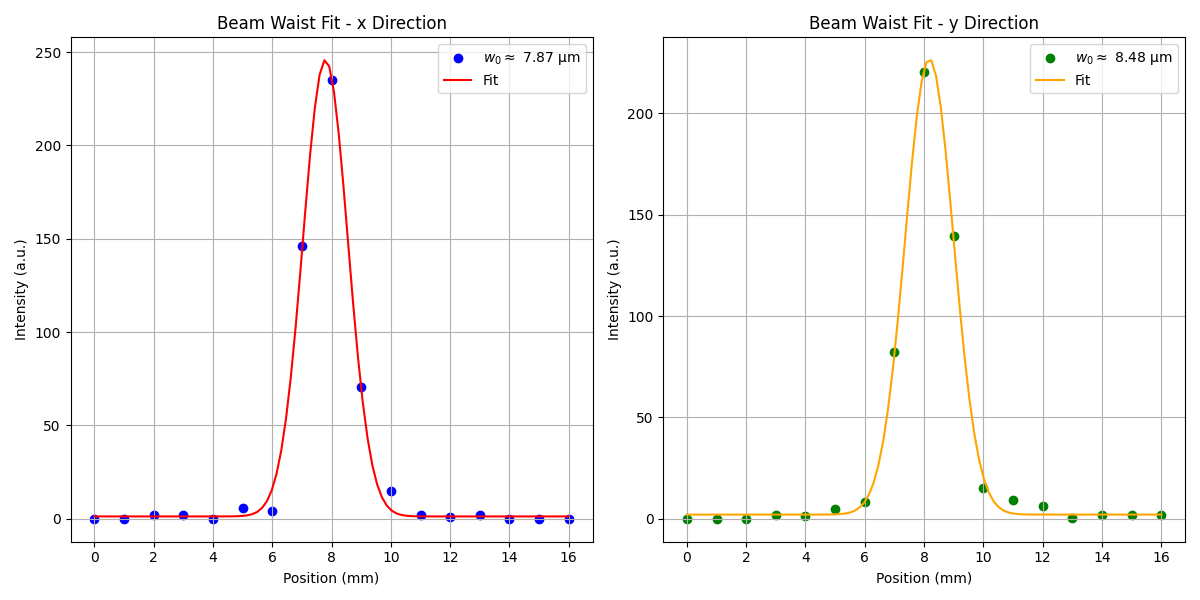
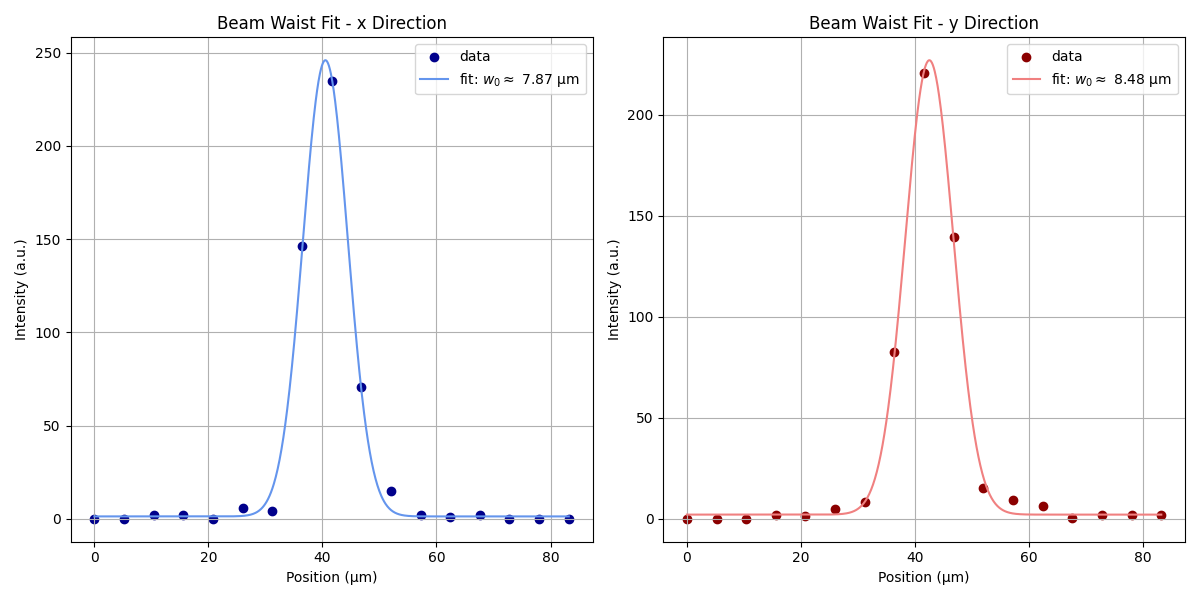
.

diff --git a/beam_waist_fit.py b/beam_waist_fit.py
@@ -5,42 +5,42 @@ from scipy.optimize import curve_fit
 xdata = np.loadtxt("C:\\Users\\au601136\\omlab\\beam waist\\bwx_75_200_65_inside_chamber_3.txt", skiprows=1)
 ydata = np.loadtxt("C:\\Users\\au601136\\omlab\\beam waist\\bwy_75_200_65_inside_chamber_3.txt", skiprows=1)
 
-def gaussian(x, a, x0, sigma, offset):
-    return a * np.exp(-(x - x0)**2 / (2 * sigma**2)) + offset
+def gaussian(x, A, sigma, B, x0):
+    return A * np.exp(-((x-x0)**2)/(2*sigma**2)) + B
 
 # Fit the data to the Gaussian function
-popt_x, pcov_x = curve_fit(gaussian, xdata[:, 0], xdata[:, 1], p0=[200, 8, 1, 0], maxfev=10000)
-popt_y, pcov_y = curve_fit(gaussian, ydata[:, 0 ], ydata[:, 1], p0=[200, 8, 1, 0], maxfev=10000)      
+popt_x, pcov_x = curve_fit(gaussian, xdata[:, 0], xdata[:, 1], p0=[200, 2, 1, 8], maxfev=10000)
+popt_y, pcov_y = curve_fit(gaussian, ydata[:, 0 ], ydata[:, 1], p0=[200, 2, 1, 8], maxfev=10000)      
 
 # Extract fitted parameters
-a_x, x0_x, sigma_x, offset_x = popt_x
-a_y, x0_y, sigma_y, offset_y = popt_y   
+#a_x, x0_x, sigma_x, offset_x = popt_x
+#a_y, x0_y, sigma_y, offset_y = popt_y   
 
 # Generate fitted data for plotting
-x_fit = np.linspace(min(xdata[:, 0]), max(xdata[:, 0]), 100)
+x_fit = np.linspace(min(xdata[:, 0]), max(xdata[:, 0]), 1000)
 y_fit_x = gaussian(x_fit, *popt_x)  
 y_fit_y = gaussian(x_fit, *popt_y)  
 
 # Plot the data and the fits
 
-print(f"Fitted parameters for x direction: a={a_x}, x0={x0_x}, sigma={sigma_x}, offset={offset_x}")
-print(f"Fitted parameters for y direction: a={a_y}, x0={x0_y}, sigma={sigma_y}, offset={offset_y}")
+#print(f"Fitted parameters for x direction: a={a_x}, x0={x0_x}, sigma={sigma_x}, offset={offset_x}")
+#print(f"Fitted parameters for y direction: a={a_y}, x0={x0_y}, sigma={sigma_y}, offset={offset_y}")
 
 plt.figure(figsize=(12, 6))     
 
 plt.subplot(1, 2, 1)
-plt.scatter(xdata[:, 0], xdata[:, 1], label='$w_0 \\approx$ %s μm' % str(round(np.abs(5.2*2*sigma_x),2)), color='blue') 
-plt.plot(x_fit, y_fit_x, label='Fit', color='red')        
+plt.scatter(xdata[:, 0]*5.2, xdata[:, 1], label='data', color='darkblue') 
+plt.plot(x_fit*5.2, y_fit_x, label='fit: $w_0 \\approx$ %s μm' % str(round(np.abs(2*5.2*popt_x[1]),2)), color='cornflowerblue')        
 plt.title('Beam Waist Fit - x Direction')
-plt.xlabel('Position (mm)')
+plt.xlabel('Position (μm)')
 plt.ylabel('Intensity (a.u.)')
 plt.legend()
 plt.grid()
 plt.subplot(1, 2, 2)
-plt.scatter(ydata[:, 0], ydata[:, 1], label='$w_0 \\approx$ %s μm' % str(round(np.abs(5.2*2*sigma_y),2)), color='green') 
-plt.plot(x_fit, y_fit_y, label='Fit', color='orange') 
+plt.scatter(ydata[:, 0]*5.2, ydata[:, 1], label='data', color='darkred') 
+plt.plot(x_fit*5.2, y_fit_y, label='fit: $w_0 \\approx$ %s μm' % str(round(np.abs(2*5.2*popt_y[1]),2)), color='lightcoral') 
 plt.title('Beam Waist Fit - y Direction')
-plt.xlabel('Position (mm)')
+plt.xlabel('Position (μm)')
 plt.ylabel('Intensity (a.u.)')
 plt.legend()
 plt.grid()
